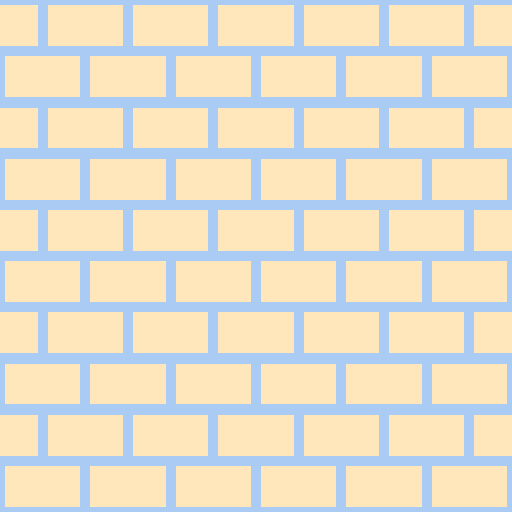
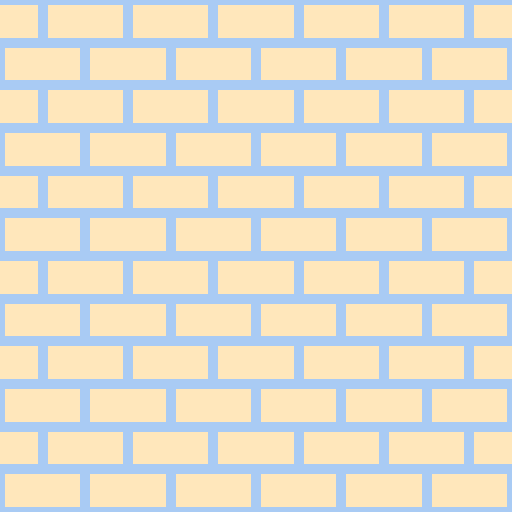
tweak tile shader

diff --git a/drafts/shader_image/shader/src/lib.rs b/drafts/shader_image/shader/src/lib.rs
@@ -9,7 +9,7 @@ use spirv_std::spirv;
 
 #[spirv(fragment)]
 pub fn main_fs(uv: Vec2, output: &mut Vec4) {
-	let tile_size = vec2(6.0, 10.0);
+	let tile_size = vec2(6.0, 12.0);
 	let gap_size = tile_size * 0.02;
 	let mut tile = uv * tile_size;
 	let y_offet = tile.y.floor() % 2.0;
